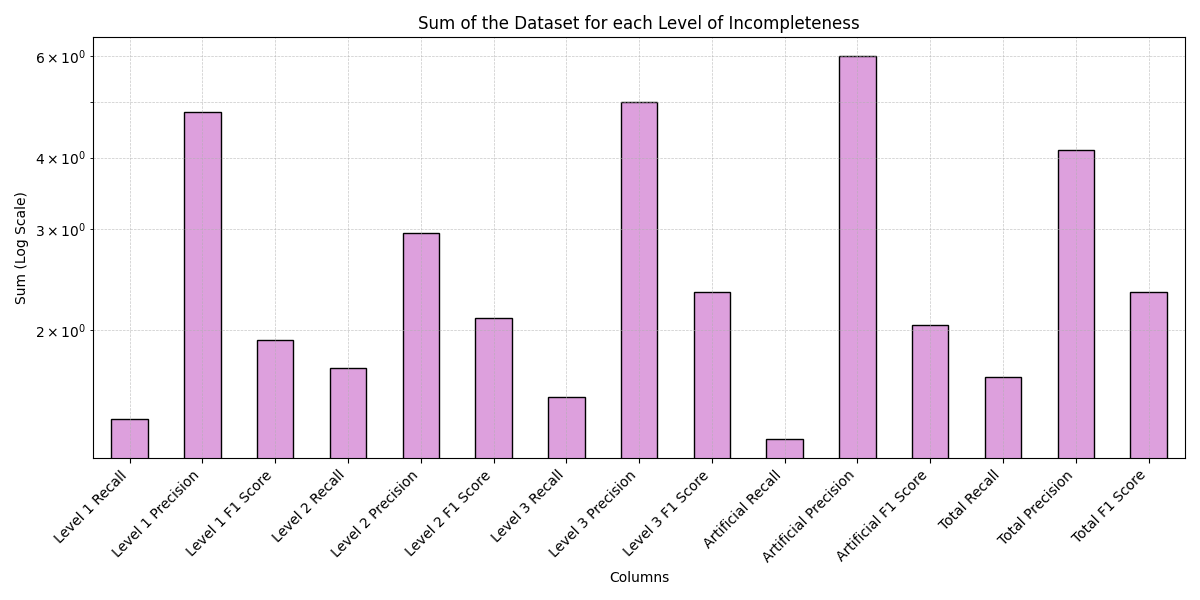
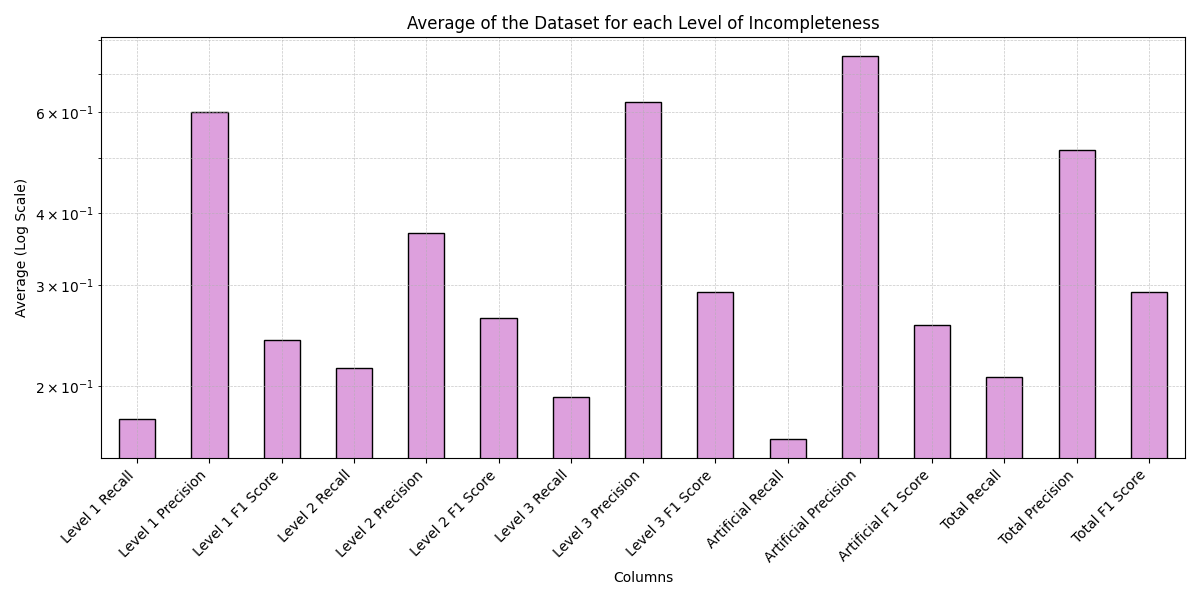
All Evaluation Finished

diff --git a/src/scoring/advanced_plotting.py b/src/scoring/advanced_plotting.py
@@ -57,18 +57,18 @@ df_filtered = df_filtered.apply(pd.to_numeric, errors='coerce').fillna(0)
 
 # Sum all the rows for each numeric column
 column_sums = df_filtered.sum()
-
+column_average = column_sums.div(8)
 
 # Create the bar plot
 plt.figure(figsize=(12, 6))
-bar_plot = column_sums.plot(kind='bar', color='plum', edgecolor='black')
+bar_plot = column_average.plot(kind='bar', color='plum', edgecolor='black')
 # Set y-axis to logarithmic scale
 plt.yscale('log')
 
 # Add titles and labels
-plt.title('Sum of the Dataset for each Level of Incompleteness')
+plt.title('Average of the Dataset for each Level of Incompleteness')
 plt.xlabel('Columns')
-plt.ylabel('Sum (Log Scale)')
+plt.ylabel('Average (Log Scale)')
 
 # Add gridlines for better readability
 plt.grid(True, which="both", linestyle='--', linewidth=0.5, alpha=0.7)
